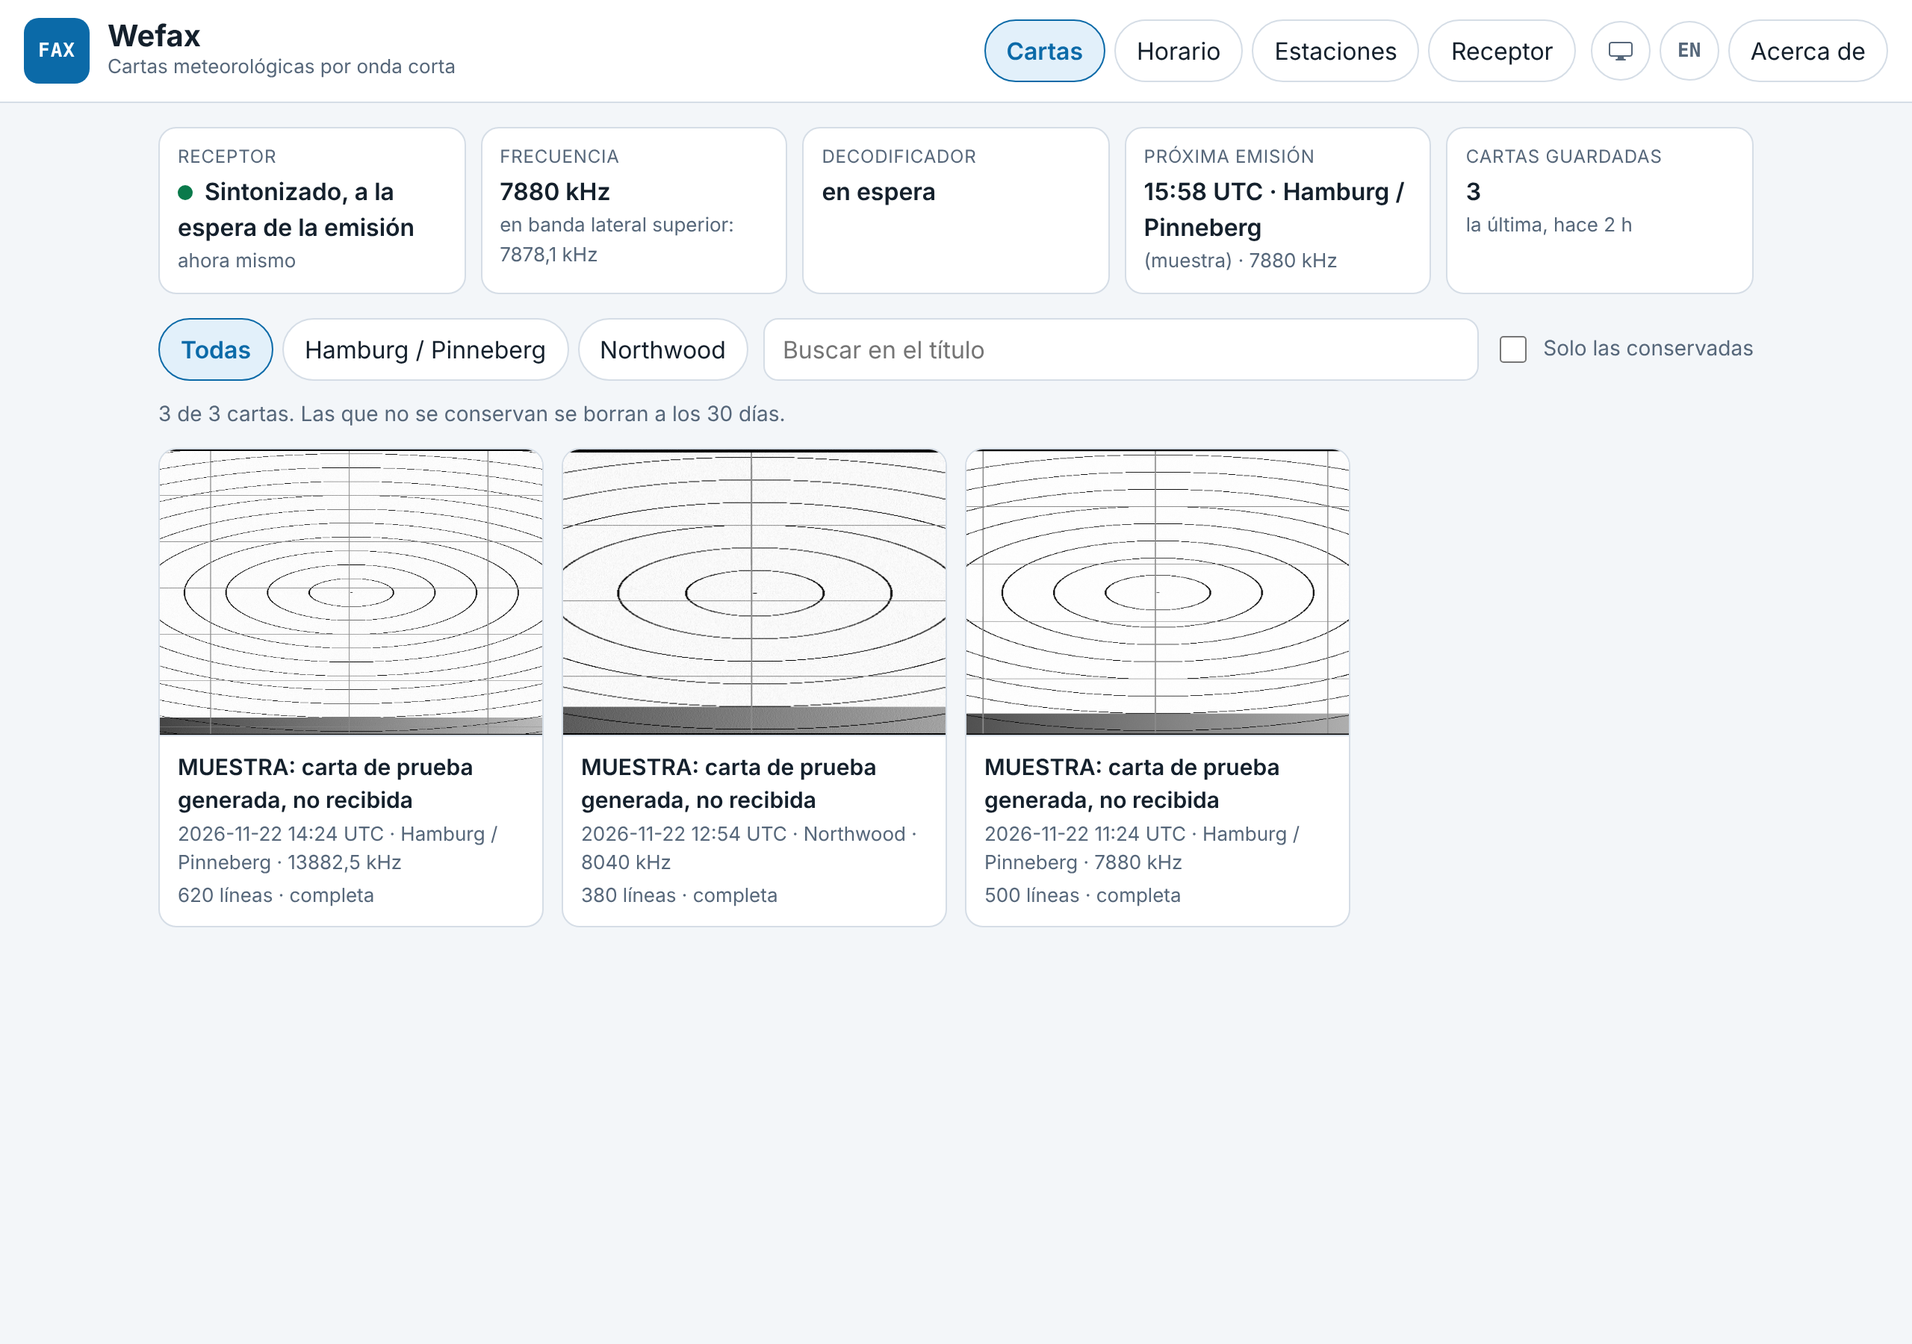
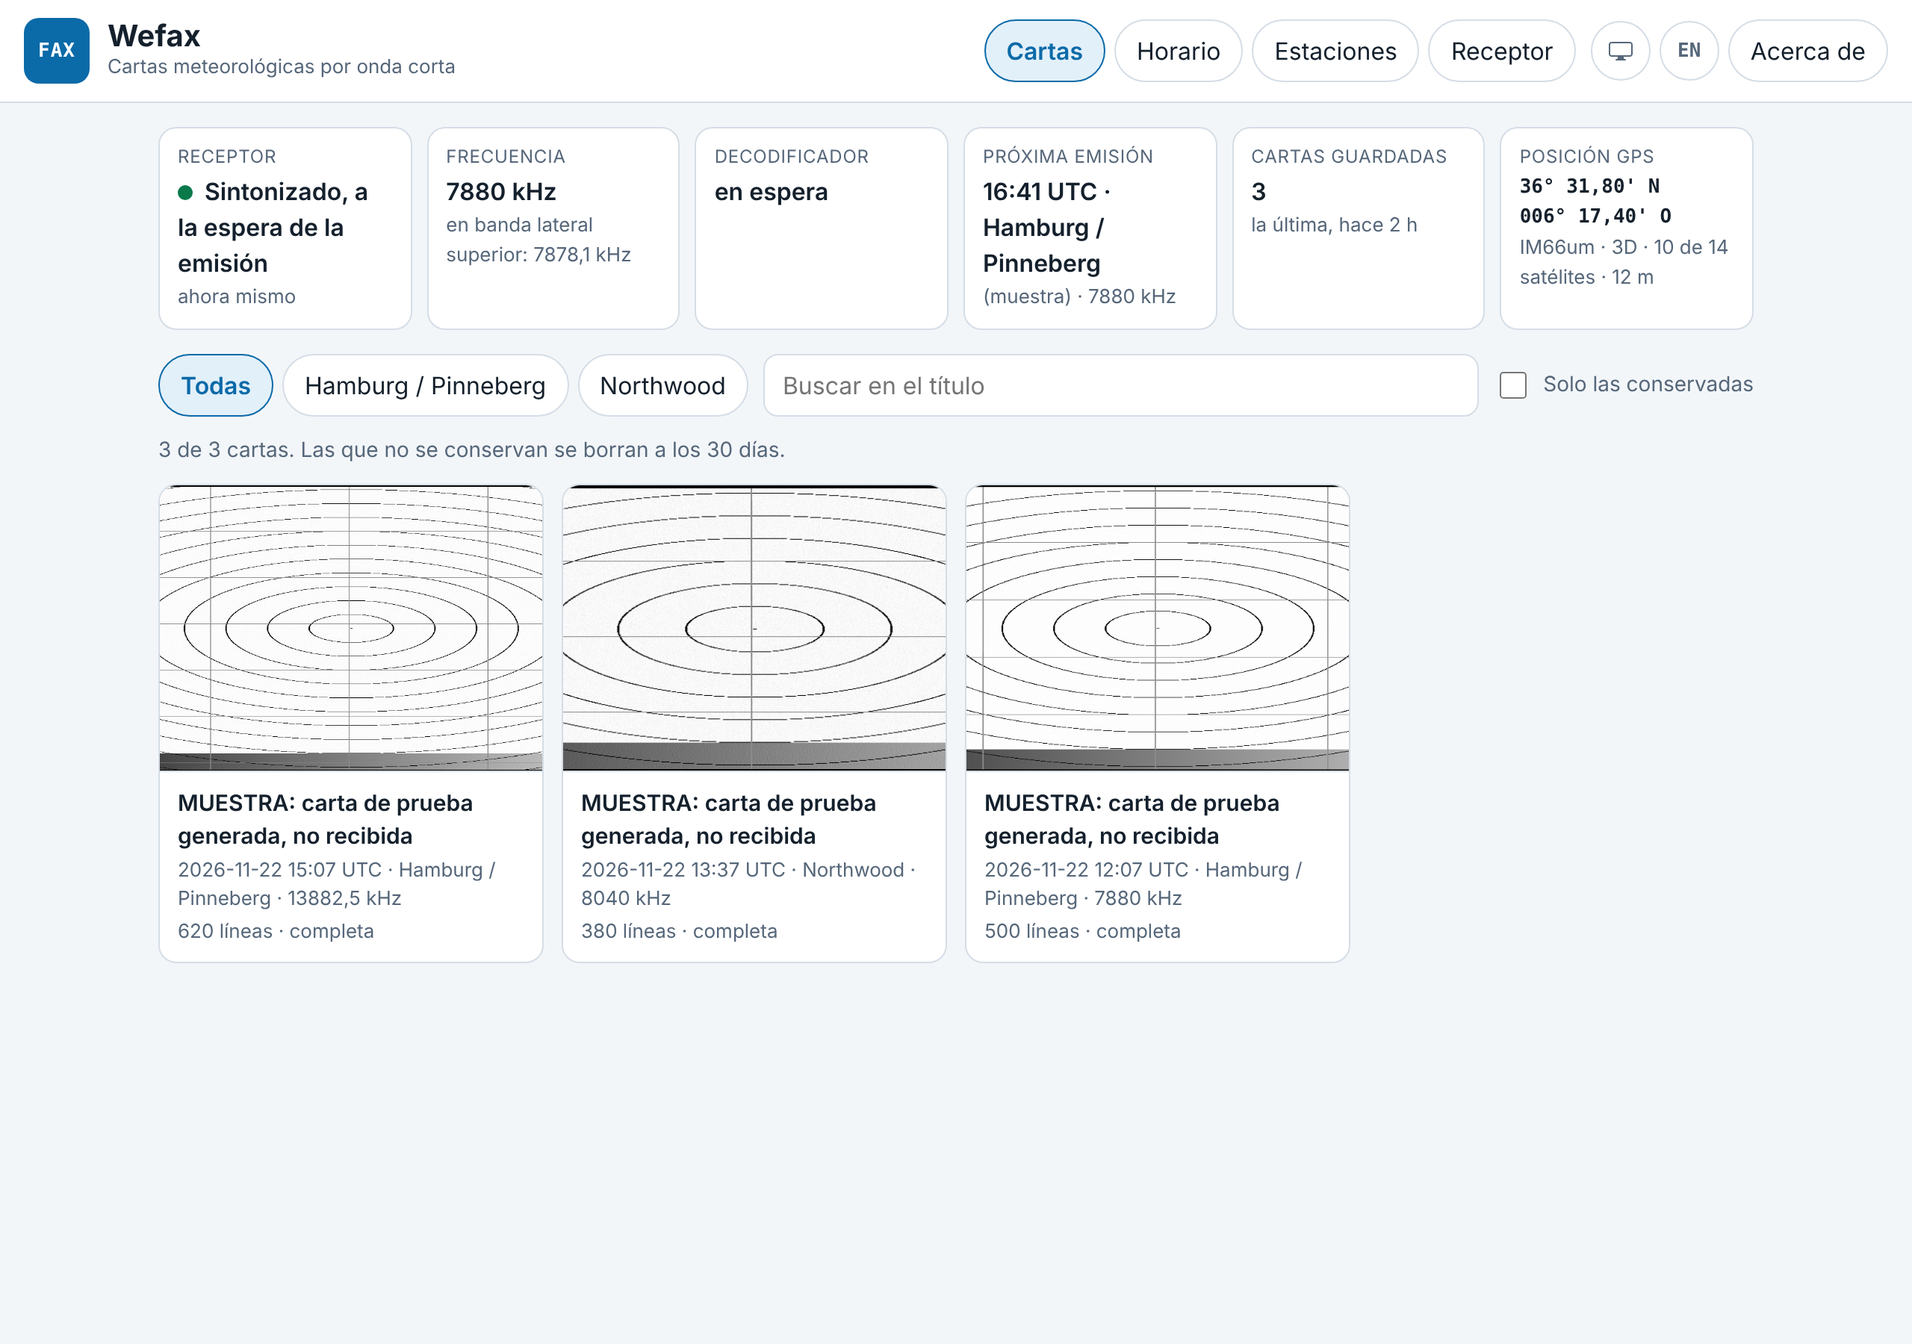
README al modo de Navtex: instalación paso a paso, servicios, comandos, API y problemas
Capturas con el recuadro del GPS; notas de la 0.2.0 y normas al día.

Claude-Session: https://claude.ai/code/session_017B8KvHWCRVzRctpPv6ivfp

Changed region(s): [[0.0625, 0.0933, 0.875, 0.7156], [0.7812, 0.2489, 0.9062, 0.3111]]

diff --git a/README.md b/README.md
@@ -22,7 +22,7 @@ Wefax · © 2026 Manuel - EA7JRS · GPL-3.0-or-later · parte del ecosistema APR
 
 ![Cartas recibidas](docs/img/web_cartas.png)
 
-*Las tres cartas son la carta de prueba de arriba, y el estado del receptor está puesto a mano para la captura: nada de eso se recibió del aire.*
+*Las tres cartas son la carta de prueba de arriba, y el estado del receptor y la posición del GPS están puestos a mano para la captura: nada de eso se recibió del aire.*
 
 ![Horario de las próximas 24 horas](docs/img/web_horario.png)
 
@@ -54,11 +54,12 @@ Hecho y comprobado en el PC (`make check`, 91 comprobaciones):
 - el programa `wefaxreceiver` descodificando una grabación generada;
 - la interfaz web en un navegador, con una base de datos de muestra (las capturas de arriba).
 
+Comprobado en un equipo real (Debian 13, con la API de SDRplay y librtlsdr): compila, pasa `make check`, se instala, los servicios arrancan y la interfaz se abre desde la red local.
+
 **Sin probar:**
 
-- una señal real del aire, con ningún receptor. El programa compila con RTL-SDR; **la parte de SDRplay no se ha podido compilar** donde se escribió (no hay API), solo en un equipo que la tenga;
+- una señal real del aire, con ningún receptor. El programa compila con RTL-SDR; la parte de SDRplay compila, pero **no se ha usado todavía con un receptor**;
 - el turno con Navtex contra un Navtex en marcha;
-- los servicios y su instalador, en ningún equipo (el guion solo se ha revisado con `sh -n`);
 - **la lista de estaciones contra el original**: se transcribió con un lector automático y no se ha cotejado línea a línea. Las de EE. UU. salen del horario en texto de cada estación (limpio, una fila por carta); Hamburgo y Northwood, del PDF mundial, más propenso a errores. Compruebe una hora antes de fiarse de ella.
 
 **Sin hacer todavía:**
@@ -86,67 +87,111 @@ Hecho y comprobado en el PC (`make check`, 91 comprobaciones):
 
 ## Instalación
 
+**1. Dependencias.** Si va a usar un SDRplay, instale antes su API.
+
 ```bash
 sudo apt install git build-essential autoconf automake zlib1g-dev libcjson-dev libsqlite3-dev libmicrohttpd-dev librtlsdr-dev
 ```
+
+**2. Descargar el código.** En su carpeta personal, no en `/opt/Wefax`: ahí van la interfaz instalada, las cartas y la base de datos.
 
 ```bash
 cd ~
 git clone https://github.com/EA7JRS/Wefax.git
 cd Wefax
+```
+
+**3. Compilar.**
+
+```bash
 autoreconf -i && automake --add-missing; autoreconf
-./configure && make
+./configure
+make
+```
+
+`./configure` acaba con una línea como `receivers: SDRplay yes, RTL-SDR yes`: compruebe que el suyo dice `yes`.
+
+**4. Comprobar (opcional).** Pasa las pruebas del descodificador, la cadena hasta la imagen, la base de datos y el horario; no toca la instalación.
+
+```bash
 make check
+```
+
+**5. Instalar los programas.** Van a `/usr/local/bin`; la interfaz web, las cartas y la base de datos, a `/opt/Wefax`.
+
+```bash
 sudo make install
 ```
 
-`./configure` acaba diciendo qué receptores quedan incluidos (`receivers: SDRplay yes, RTL-SDR yes`). Los programas van a `/usr/local/bin`; la interfaz, las cartas y la base de datos, a `/opt/Wefax`.
-
-Para que arranquen solos como servicios (con su usuario, no con root):
+**6. Montar los servicios.** Toma como usuario el que ejecuta `sudo`. Si trabaja como `root` directamente, indíquelo con `--usuario <nombre>` (no puede ser `root`).
 
 ```bash
 sudo sh tools/instalar-servicios.sh
 ```
 
-Si trabaja como `root` (sin `sudo`), diga qué usuario los ejecutará: `sh tools/instalar-servicios.sh --usuario <nombre>`.
+**7. Abrir el cortafuegos**, si lo hay, a la red local. Ponga el rango de su red (`10.0.0.0/8`, `172.16.0.0/12` o `192.168.0.0/16`):
 
-> Descargue el código en su carpeta personal, no en `/opt/Wefax`: ahí van la interfaz instalada, las cartas y la base de datos.
+```bash
+sudo ufw allow from 192.168.0.0/16 to any port 8081 proto tcp
+```
 
-Después abra `http://<equipo>:8081/`, elija las estaciones en **Estaciones** y encienda el receptor en **Receptor**. Hasta entonces el receptor no toca ningún equipo. El puerto se cambia en `/etc/default/wefax` (Navtex usa el 8080).
-
-> La interfaz web no tiene contraseña: déjela solo en una red de confianza, o en `127.0.0.1`.
+**8. Abrir la interfaz:** `http://<equipo>:8081/`. Elija las estaciones en la pestaña **Estaciones**, y el equipo en **Receptor**; después marque **Encendido**. Hasta entonces el receptor no toca ningún equipo.
 
 ### Actualizar
 
-```bash
-cd Wefax
-git pull
-```
+Desde la carpeta donde se clonó el código:
 
 ```bash
+git pull
 autoreconf -i && automake --add-missing; autoreconf
 ./configure && make
 sudo make install
-```
-
-```bash
 sudo systemctl restart wefax-web wefax-receiver
 ```
 
-`sudo make install` sustituye la interfaz y la lista de estaciones de `/opt/Wefax/build`; no toca las cartas ni los ajustes.
+Las cartas y los ajustes se conservan; `sudo make install` solo sustituye los programas, la interfaz y la lista de estaciones. Después, recargue la página con Ctrl+F5. Si las notas de la versión dicen que cambian los servicios, repita además el paso 6.
 
 ### Desinstalar
 
 ```bash
-sudo sh tools/instalar-servicios.sh --quitar
-sudo make uninstall
+sudo sh tools/instalar-servicios.sh --quitar     # para y retira los servicios
+sudo make uninstall                              # quita los programas de /usr/local/bin
 ```
 
-Las cartas y los ajustes quedan en `/opt/Wefax`; bórrelos a mano si ya no los quiere.
+`/opt/Wefax` (cartas y ajustes) y `/etc/default/wefax` no se borran: quítelos a mano si ya no los quiere.
+
+## Servicios
+
+| Servicio | Qué hace |
+| :--- | :--- |
+| `wefax-web` | La interfaz web y la API, en el puerto 8081 |
+| `wefax-receiver` | El receptor: siempre en marcha, pero no toca ningún equipo hasta que se enciende en la web |
+
+Ninguno se ejecuta como `root`. El puerto, la dirección de escucha y el gpsd de la interfaz web están en `/etc/default/wefax`. Navtex usa el puerto 8080 y Wefax el 8081: pueden convivir en el mismo equipo.
+
+**Receptor compartido.** Un equipo solo lo puede usar un programa a la vez. Si el receptor dice «Sin equipo», lo tiene otro programa (Navtex, SDRconnect, SDR++) o está desconectado; lo reintenta cada 15 segundos. Con [Navtex](https://github.com/EA7JRS/Navtex) puede turnarse solo: pestaña Receptor, «Compartir el equipo con Navtex».
+
+Registro en vivo: `journalctl -u wefax-receiver -f`
 
 ## Comandos
 
-### `wefaxreceiver`
+### Servicios
+
+| Comando | Qué hace |
+| :--- | :--- |
+| `systemctl is-active wefax-web wefax-receiver` | Dice si los dos están en marcha |
+| `systemctl status wefax-web` | Estado y últimas líneas de la interfaz web |
+| `sudo systemctl restart wefax-web` | Reinicia la interfaz web (tras cambiar `/etc/default/wefax` o actualizar) |
+| `sudo systemctl restart wefax-receiver` | Reinicia el receptor |
+| `sudo systemctl stop wefax-receiver` | Suelta el equipo, por ejemplo para usarlo con otro programa |
+| `journalctl -u wefax-receiver -f` | Registro en vivo del receptor: sintonía, tonos y cartas guardadas |
+| `journalctl -u wefax-web -n 50` | Últimas 50 líneas de la interfaz web |
+| `sudo sh tools/instalar-servicios.sh --usuario <nombre>` | Vuelve a montar los servicios, con ese usuario |
+| `sudo sh tools/instalar-servicios.sh --quitar` | Para y retira los servicios |
+
+### `wefaxreceiver`: el receptor
+
+El servicio lo arranca con `-q -n`. A mano sirve para probar un equipo, escuchar una frecuencia o descodificar una grabación (pare antes el servicio si usa el mismo equipo).
 
 | Opción | Qué hace |
 | :--- | :--- |
@@ -174,31 +219,53 @@ wefaxreceiver -f grabacion.wav         # descodificar una grabación
 
 **La frecuencia** es la asignada, que es el centro del canal: negro 400 Hz por debajo y blanco 400 Hz por encima. Con un receptor de banda lateral superior se sintonizaría 1,9 kHz por debajo; aquí no hace falta restar nada.
 
-### `wefaxwebserver`
+### `wefaxwebserver`: la interfaz web y la API
 
 ```bash
-wefaxwebserver [puerto] [dirección]     # de serie: 8081, todas las direcciones
+wefaxwebserver [puerto] [dirección]
 ```
 
-| Ruta | Qué da |
+| Argumento | Qué es |
 | :--- | :--- |
-| `GET /api/status` | Qué hace el receptor |
-| `GET /api/charts?since=&limit=` | Las cartas recibidas, la más nueva primero |
-| `GET /api/next` | La emisión en curso o la siguiente |
-| `GET /api/settings` | Los ajustes |
-| `GET /api/about` | La versión |
-| `GET /api/gps` | La posición que da gpsd |
-| `GET /chart/<id>.png`, `GET /live.png` | Una carta; la que se está recibiendo |
-| `POST /api/settings/<nombre>/<valor>` | Cambia un ajuste (con la cabecera `X-Wefax`) |
-| `POST /api/charts/keep/<id>/<0\|1>` | Marca una carta para conservarla |
+| `puerto` | Puerto TCP (de serie, 8081) |
+| `dirección` | Dirección IPv4 en la que escucha (de serie, todas); `127.0.0.1` para solo este equipo |
 
-### Servicios
+Como servicio toma el puerto, la dirección y el gpsd de `/etc/default/wefax` (`WEB_PORT`, `WEB_ADDRESS`, `WEFAX_GPSD`); tras cambiarlos, `sudo systemctl restart wefax-web`.
+
+### Compilación
+
+| Comando | Qué hace |
+| :--- | :--- |
+| `autoreconf -i && automake --add-missing; autoreconf` | Genera `configure` (tras clonar o actualizar) |
+| `./configure` | Comprueba las librerías y prepara la compilación |
+| `make` | Compila `wefaxreceiver` y `wefaxwebserver` |
+| `make check` | Pasa las pruebas (91 comprobaciones) |
+| `sudo make install` | Instala los programas, la interfaz y la lista de estaciones; conserva cartas y ajustes |
+| `sudo make uninstall` | Quita los programas |
+| `make clean` | Borra lo compilado |
+
+### Consultas rápidas
 
 ```bash
-systemctl status wefax-web wefax-receiver
-journalctl -u wefax-receiver -f
-sudo systemctl restart wefax-receiver
+curl -s http://127.0.0.1:8081/api/about                   # versión
+curl -s http://127.0.0.1:8081/api/status                  # qué hace el receptor
+curl -s http://127.0.0.1:8081/api/next                    # emisión en curso o la siguiente
+curl -s "http://127.0.0.1:8081/api/charts?limit=10"       # las diez últimas cartas, en JSON
+curl -s -o carta.png http://127.0.0.1:8081/chart/1.png    # guardar la carta número 1
+curl -s http://127.0.0.1:8081/api/gps                     # posición que da gpsd
+ss -tulpn | grep -E "8081|wefax"                          # ¿está escuchando?
 ```
+
+### Dónde está cada cosa
+
+| Ruta | Qué hay |
+| :--- | :--- |
+| `/usr/local/bin/wefaxreceiver`, `/usr/local/bin/wefaxwebserver` | Los dos programas |
+| `/opt/Wefax/Wefax.db` | Ajustes, estado y lista de cartas (SQLite) |
+| `/opt/Wefax/charts/AAAAMMDD/` | Las cartas, en PNG; `charts/live.png` es la que se está recibiendo |
+| `/opt/Wefax/build/` | La interfaz web y `estaciones.json` |
+| `/etc/default/wefax` | Puerto, dirección de escucha y gpsd de la interfaz web |
+| `/etc/systemd/system/wefax-web.service`, `wefax-receiver.service` | Los servicios |
 
 ### Lista de estaciones
 
@@ -211,6 +278,52 @@ gcc -O2 -o make_recording test/make_recording.c -lm
 ./make_recording prueba.wav 400 10 350    # 400 líneas, 10 dB de señal, receptor 350 Hz fuera
 wefaxreceiver -f prueba.wav
 ```
+
+## API
+
+Sin contraseña. Los cambios piden `POST` y la cabecera `X-Wefax` (así una página de otro sitio no puede hacerlos desde el navegador).
+
+| Ruta | Qué da |
+| :--- | :--- |
+| `GET /api/about` | La versión |
+| `GET /api/status` | Qué hace el receptor: estado, frecuencia, descodificador, próxima emisión |
+| `GET /api/next` | La emisión en curso o la siguiente de las estaciones seguidas |
+| `GET /api/charts?since=<id>&limit=<n>` | Las cartas recibidas, la más nueva primero |
+| `GET /api/settings` | Los ajustes |
+| `GET /api/gps` | La posición que da gpsd |
+| `GET /chart/<id>.png` | Una carta |
+| `GET /live.png` | La carta que se está recibiendo |
+| `GET /estaciones.json` | Estaciones, frecuencias y horarios |
+| `POST /api/settings/<nombre>/<valor>` | Cambia un ajuste (`-` como valor lo deja vacío) |
+| `POST /api/charts/keep/<id>/<0\|1>` | Marca una carta para conservarla, o le quita la marca |
+
+## Posición por GPS
+
+La interfaz web lee la posición de gpsd: de serie, el del propio equipo (`127.0.0.1:2947`), el mismo que usa Navtex. Se cambia o se quita con `WEFAX_GPSD` en `/etc/default/wefax`. El servidor solo lee; no envía nada al GPS. La posición se muestra en el recuadro «Posición GPS» y decide el aspecto «Automático» (claro de día, oscuro de noche). Con un Leo Bodnar LBE-1420, véase lo que dice el [README de Navtex](https://github.com/EA7JRS/Navtex#posición-por-gps).
+
+## Seguridad
+
+La interfaz no tiene contraseña: está pensada para la red local o la de a bordo. No la exponga a Internet.
+
+- El servidor web y el receptor no se ejecutan como `root`; el servidor web va además encerrado en su carpeta.
+- Solo se sirven los archivos de la interfaz y las cartas; no se puede pedir ninguno de fuera.
+- Los ajustes solo admiten nombres y valores conocidos, y las consultas a la base de datos no se construyen con texto recibido.
+- Los títulos y datos se escriben siempre como texto en la página.
+- Con `WEB_ADDRESS=127.0.0.1` escucha solo en el propio equipo.
+
+## Solución de problemas
+
+| Síntoma | Causa probable | Qué hacer |
+| :--- | :--- | :--- |
+| La página no carga desde otro equipo, pero `curl` en el propio equipo responde | Cortafuegos | Abra el puerto 8081 al rango de su red (paso 7) |
+| El instalador dice «Indique el usuario…» | Se ejecutó como `root` sin `sudo` | `sh tools/instalar-servicios.sh --usuario <nombre>` |
+| `git pull` dice «dubious ownership» | El código está en una carpeta de otro usuario | `git config --global --add safe.directory <carpeta>` |
+| Receptor «Sin equipo» | Desconectado, o en uso por otro programa | `lsusb`; pare el otro programa o use el turno con Navtex |
+| «No sigue ninguna estación» | No hay ninguna marcada | Pestaña Estaciones |
+| «Sintonizado» pero no llega ninguna carta | Propagación, frecuencia poco adecuada a esa hora, antena | Pruebe otra frecuencia de la estación; de día las altas, de noche las bajas |
+| Carta inclinada | Error de reloj del receptor que el enfasado no midió bien | Guarde la carta y avise: es un fallo a corregir |
+| Carta partida, con el borde en medio | Sin sincronía (emisión cogida a medias) o enfasado simétrico | Dice «sin sincronía» en sus datos; el enfasado simétrico no está hecho |
+| «gpsd no contesta» | gpsd parado, o en otro equipo | `systemctl status gpsd`; `WEFAX_GPSD` en `/etc/default/wefax` |
 
 ## Cómo es una emisión
 

diff --git a/docs/releases/v0.2.0.md b/docs/releases/v0.2.0.md
@@ -10,6 +10,7 @@ Receptor de radiofacsímil meteorológico (WEFAX) de onda corta para SDRplay y R
 - **Receptor** (`wefaxreceiver`): SDRplay, RTL-SDR o grabación; frecuencia fija o servicio que sigue el horario; cartas en PNG; puede turnarse el equipo con [Navtex](https://github.com/EA7JRS/Navtex).
 - **Interfaz web** (`wefaxwebserver`, puerto 8081): cartas con visor, carta en curso, horario de 24 horas, estaciones y ajustes. Claro, oscuro y noche; español e inglés. Sin contraseña: solo en una red de confianza.
 - **Estaciones**: Boston, Nueva Orleans, Point Reyes, Kodiak y Honolulu, de los horarios por estación del National Weather Service (diciembre de 2024); Hamburgo / Pinneberg y Northwood, del horario mundial de la NOAA (marzo de 2025). Transcritas con un lector automático: sin cotejar línea a línea con el original.
+- **Posición del GPS**: la toma de gpsd, como Navtex, y la muestra.
 - **Servicios** de systemd y `tools/instalar-servicios.sh`.
 
 ## Instalar
@@ -21,15 +22,19 @@ autoreconf -i && automake --add-missing; autoreconf
 ./configure && make && make check
 sudo make install
 sudo sh tools/instalar-servicios.sh
+sudo ufw allow from 192.168.0.0/16 to any port 8081 proto tcp   # si hay cortafuegos; ponga el rango de su red
 ```
 
-Después, `http://<equipo>:8081/`: elija estaciones y encienda el receptor.
+Descargue el código en su carpeta personal, no en `/opt/Wefax`. Como `root` sin `sudo`, el instalador pide `--usuario <nombre>`. Después, `http://<equipo>:8081/`: elija estaciones y encienda el receptor. El [README](../../README.md) trae la instalación paso a paso, todos los comandos y la solución de problemas.
+
+## Probado en un equipo real
+
+- Compila en Debian 13 con la API de SDRplay y librtlsdr, pasa `make check`, se instala y los servicios arrancan; la interfaz se abre desde la red local.
 
 ## Sin probar
 
 - Ninguna señal real, con ningún receptor.
 - El turno con Navtex contra un Navtex en marcha.
-- Los servicios y su instalador, en ningún equipo.
 
 ## Sin hacer
 

diff --git a/CHANGELOG.md b/CHANGELOG.md
@@ -9,7 +9,8 @@ Las entradas dicen también qué se probó y qué no.
 - Posición del GPS: la interfaz la toma de gpsd (`WEFAX_GPSD`, de serie `127.0.0.1:2947`; el mismo lector que Navtex) y la muestra en un recuadro; el aspecto automático usa el sol en esa posición.
 - Servicios de systemd (`wefax-web`, `wefax-receiver`) y `tools/instalar-servicios.sh`; el receptor no toca ningún equipo hasta que se enciende en la web.
 - `make check` carga también la lista instalada (91 comprobaciones).
-- Sin probar con un receptor ni con una señal real; los servicios y el instalador, sin ejecutar en ningún equipo.
+- README con la instalación paso a paso, servicios, comandos, API, seguridad y solución de problemas, al modo de Navtex.
+- Comprobado en un equipo real (Debian 13, API de SDRplay y librtlsdr): compila, pasa `make check`, se instala y los servicios arrancan. **Sin probar con un receptor ni con una señal real.**
 
 ## [0.1.0] - 2026-11-22
 

diff --git a/docs/NORMAS.md b/docs/NORMAS.md
@@ -50,4 +50,5 @@ Se consultaron porque se citan a veces junto al radiofacsímil, y no son de apli
 - **Sensibilidad y selectividad:** dependen del receptor y de la antena; no se han medido con una señal real.
 - **Enfasado simétrico** y **onda larga:** no hechos.
 - **Satélite:** no recibe imágenes de satélite. El WEFAX analógico de los geoestacionarios (1691 MHz) se sustituyó por LRIT / HRIT, digitales; es otro sistema y otro descodificador.
+- **Posición:** la del GPS (gpsd) solo se muestra y decide el aspecto de la página; no interviene en la recepción.
 - **Seguridad de la interfaz web:** sin contraseña ni cifrado; solo para una red de confianza.
